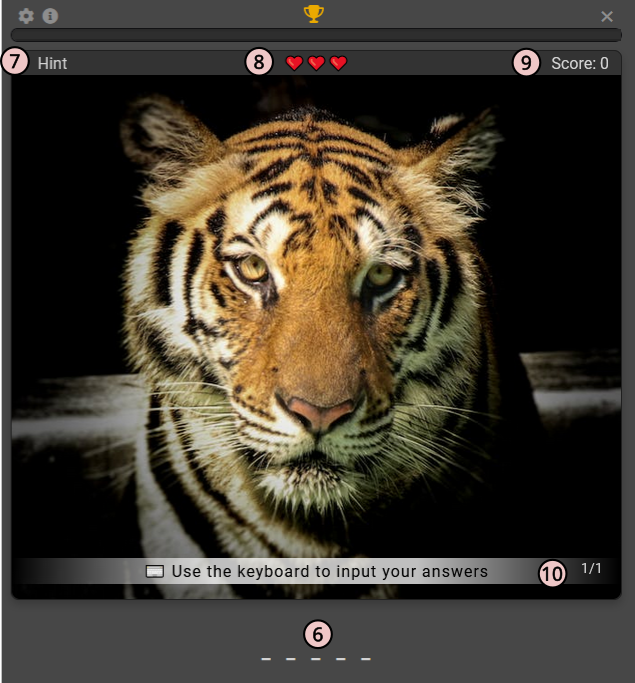
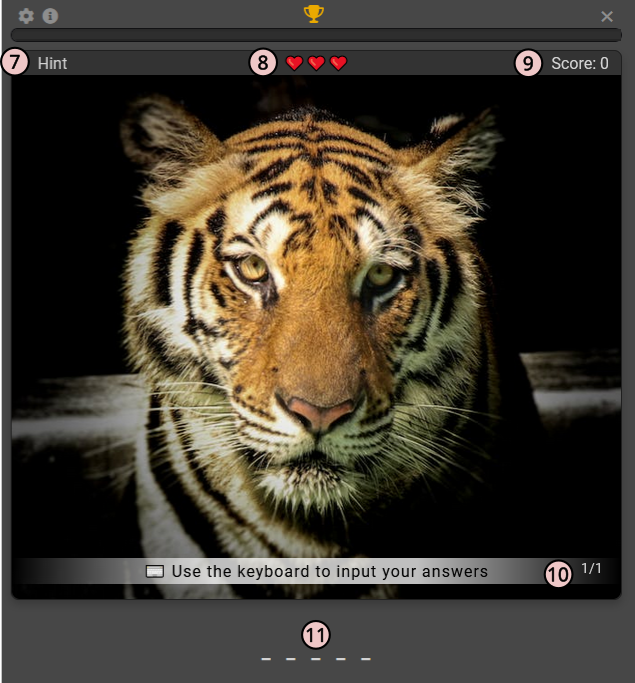
Update flashcard game instructions

diff --git a/flashcard.html b/flashcard.html
@@ -343,34 +343,45 @@
                 <h3 class="modal-title">Game Instructions</h3>               
             </div>
             <div class="modal-body">
+              <h4 class="d-flex justify-content-center instruction-zoom">Zoom in on an image by clicking/tapping on it.</h4>
               <div class="container-fluid">
-                <h4>Main screen</h4>
                 <div class="row">
-                  <div class="col-md-6">
+                  <div class="col-lg-6"><h5 class="instruction-head text-center">Main menu</h5></div>
+                  <div class="col-lg-6"></div>
+                </div>                
+                <div class="row">
+                  <div class="col-lg-6">
                     <img class="instructions-img" id="main-img" src="" alt="">
                   </div>
-                  <div class="col-md-6">
-                    <ul>
-                      <li><span class="circle">1</span> text</li>
-                      <li>1</li>
-                      <li>1</li>
-                      <li>1</li>
-                      <li>1</li>
+                  <div class="col-lg-6">
+                    <ul class="instruction-desc">
+                      <li>1. <i>Settings</i> - Access game preferences and customize settings.</li>
+                      <li>2. <i>Trophy</i> - Displays user's highest score.</li>
+                      <li>3. <i>Exit</i>  - Allows users to exit the game and return to the main menu.</li>
+                      <li>4. <i>Progress Bar</i> - Represents user progress through the game</li>
+                      <li>5. <i>Categories</i> - Select a category to guess words from multiple images.</li>
+                      <li>6. <i>Notifications</i> - Displays short information about different parts of the layout. Can be disabled in the Settings area.</li>                      
                     </ul>
                   </div>
                 </div>
+
                 <div class="row">
-                  <h4>Gameplay</h4>
-                  <div class="col-md-6">
+                  <div class="col-lg-6"><h5 class="instruction-head text-center">Gameplay</h5></div>
+                  <div class="col-lg-6"></div>
+                </div> 
+              
+                <div class="row">
+                  <div class="col-lg-6">
                     <img class="instructions-img" id="gameplay-img" src="" alt="">
                   </div>
-                  <div class="col-md-6">
-                    <ul>
-                      <li>1</li>
-                      <li>1</li>
-                      <li>1</li>
-                      <li>1</li>
-                      <li>1</li>
+                  <div class="col-lg-6">
+                    <ul class="instruction-desc">
+                      <li>7. <i>Hint Link</i> - Click to flip the flashcard and reveal a short description for the image.</li>
+                      <li>8. <i>Hearts</i> - Represents the number of attempts remaining.</li>
+                      <li>9. <i>Score</i> - Shows the current score for the ongoing game.</li>
+                      <li>10. <i>Image Index</i> - Indicates the current image out of the total in the current category.</li>
+                      <li>11. <i>Underscores</i> - Displays underscores representing the word to be guessed.</li>
+                      <li>12. <i>Mobile</i> - Only visible for tablets/mobiles. Tap to trigger the off-screen keyboard <i class="far fa-keyboard"></i></li>
                     </ul>
                   </div>
                 </div>
@@ -379,7 +390,7 @@
             </div>
                      
             <div class="modal-body resetInstructions">
-              <h4>Reset the Game</h4>
+              <h5>Reset the Game</h5>
               <p>If you wish to start the game anew:</p>
               <ol>
                   <li>Go to the settings ⚙ in the game.</li>

diff --git a/assets/css/flashcard.css b/assets/css/flashcard.css
@@ -478,17 +478,30 @@ button.cat-active {
 }
 
 /* INSTRUCTIONS */
+.instruction-zoom {
+  font-size: 0.75rem;
+  color: grey;
+}
+
+.instruction-head {
+  padding-left: 20px;
+}
+
 .instructions-img {
   width: 100%;
 }
 
-.circle {
-  border-radius: 50%;
-  padding: 0.5px 5px;
-  background: rgb(255, 0, 0, 0.2);
-  border: 1px solid #000;
-  text-align: center;
-  font-weight: 600;
+.instruction-desc {
+  list-style-type: none;
+  padding-left: 10px;
+}
+
+.instruction-desc li {
+  margin-bottom: 10px;
+}
+
+.resetInstructions {
+  padding-left: 25px;
 }
 
 @media (max-width: 768px) { 
